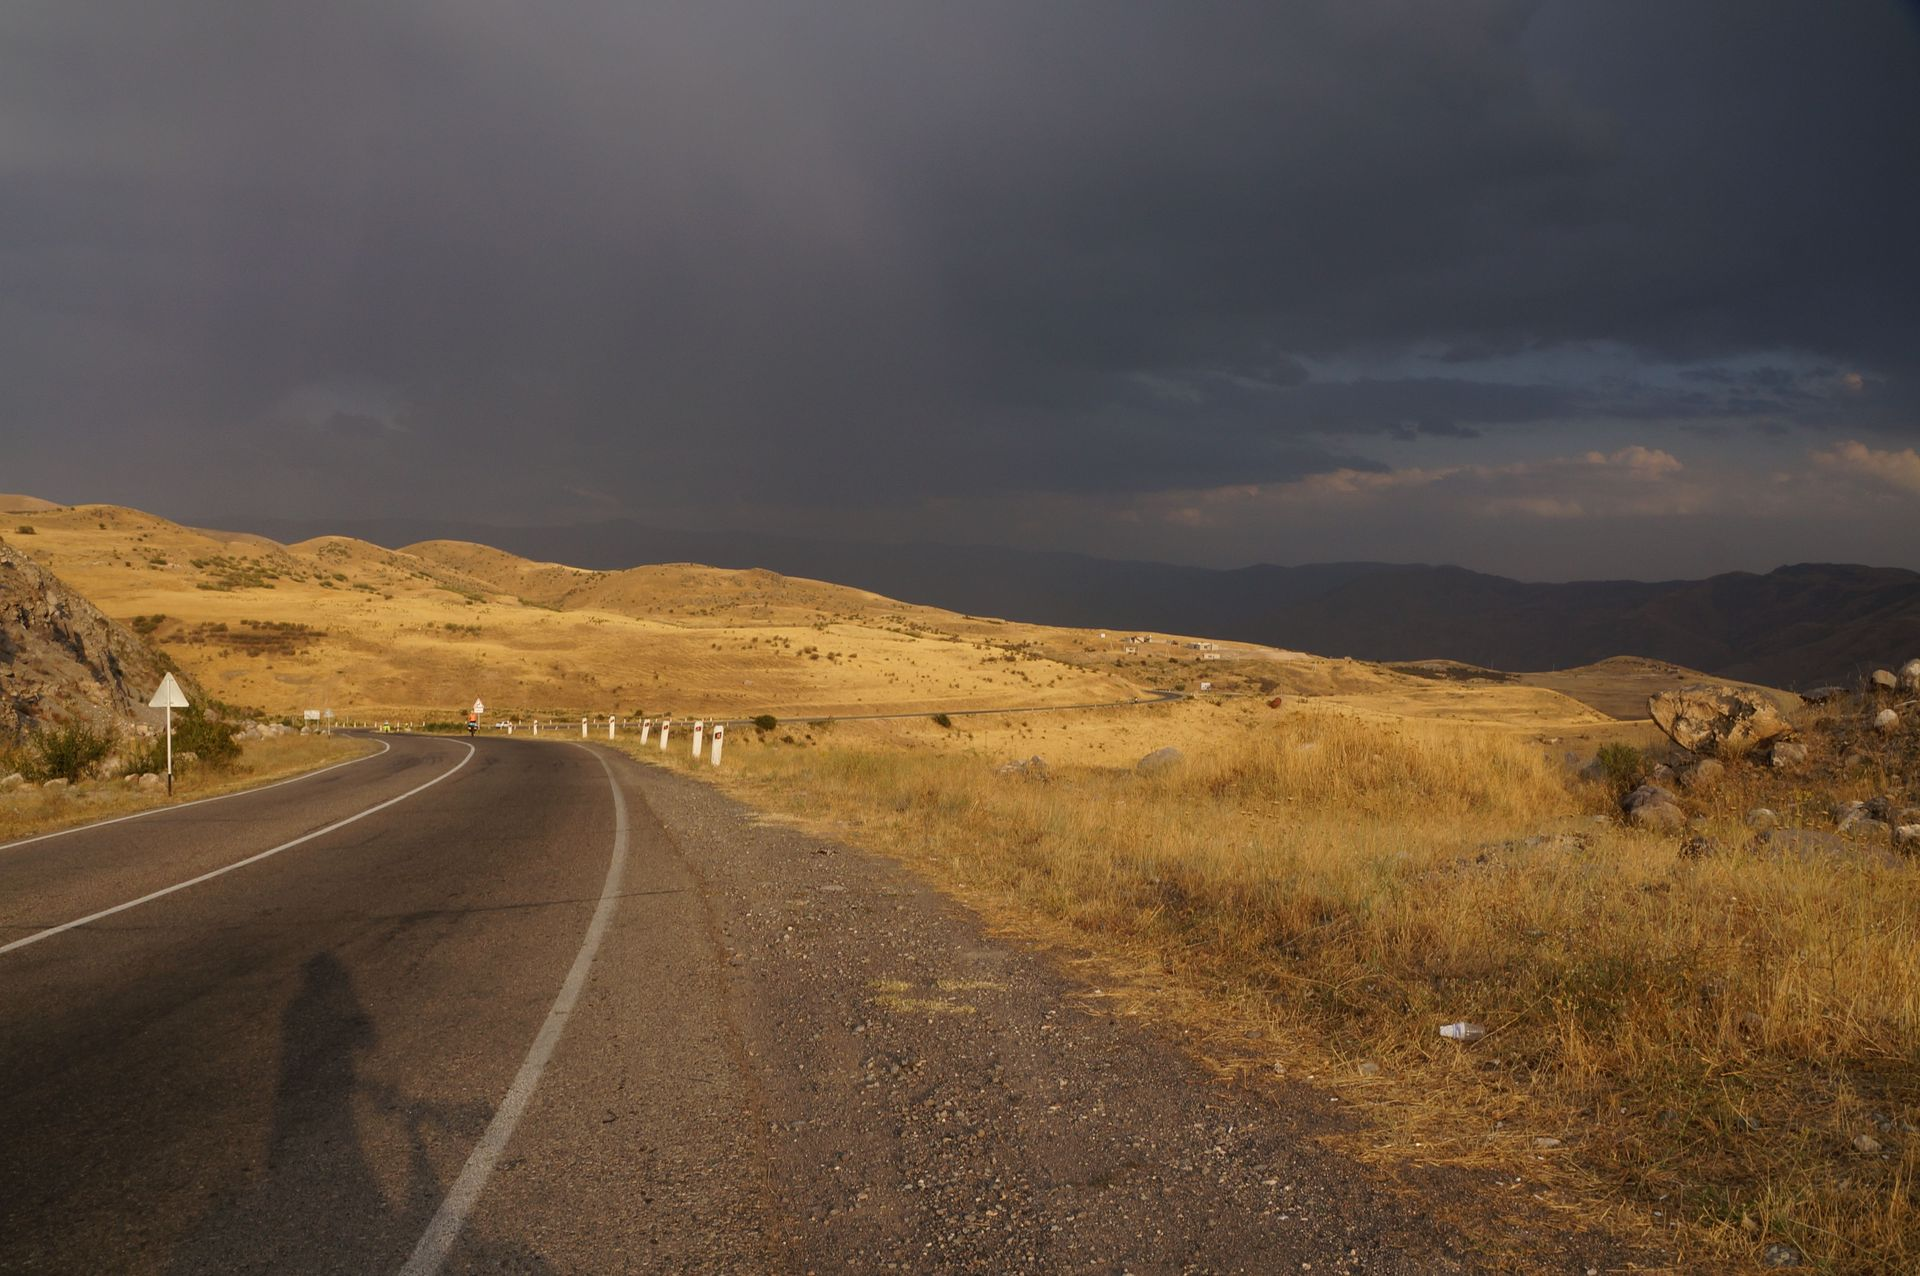
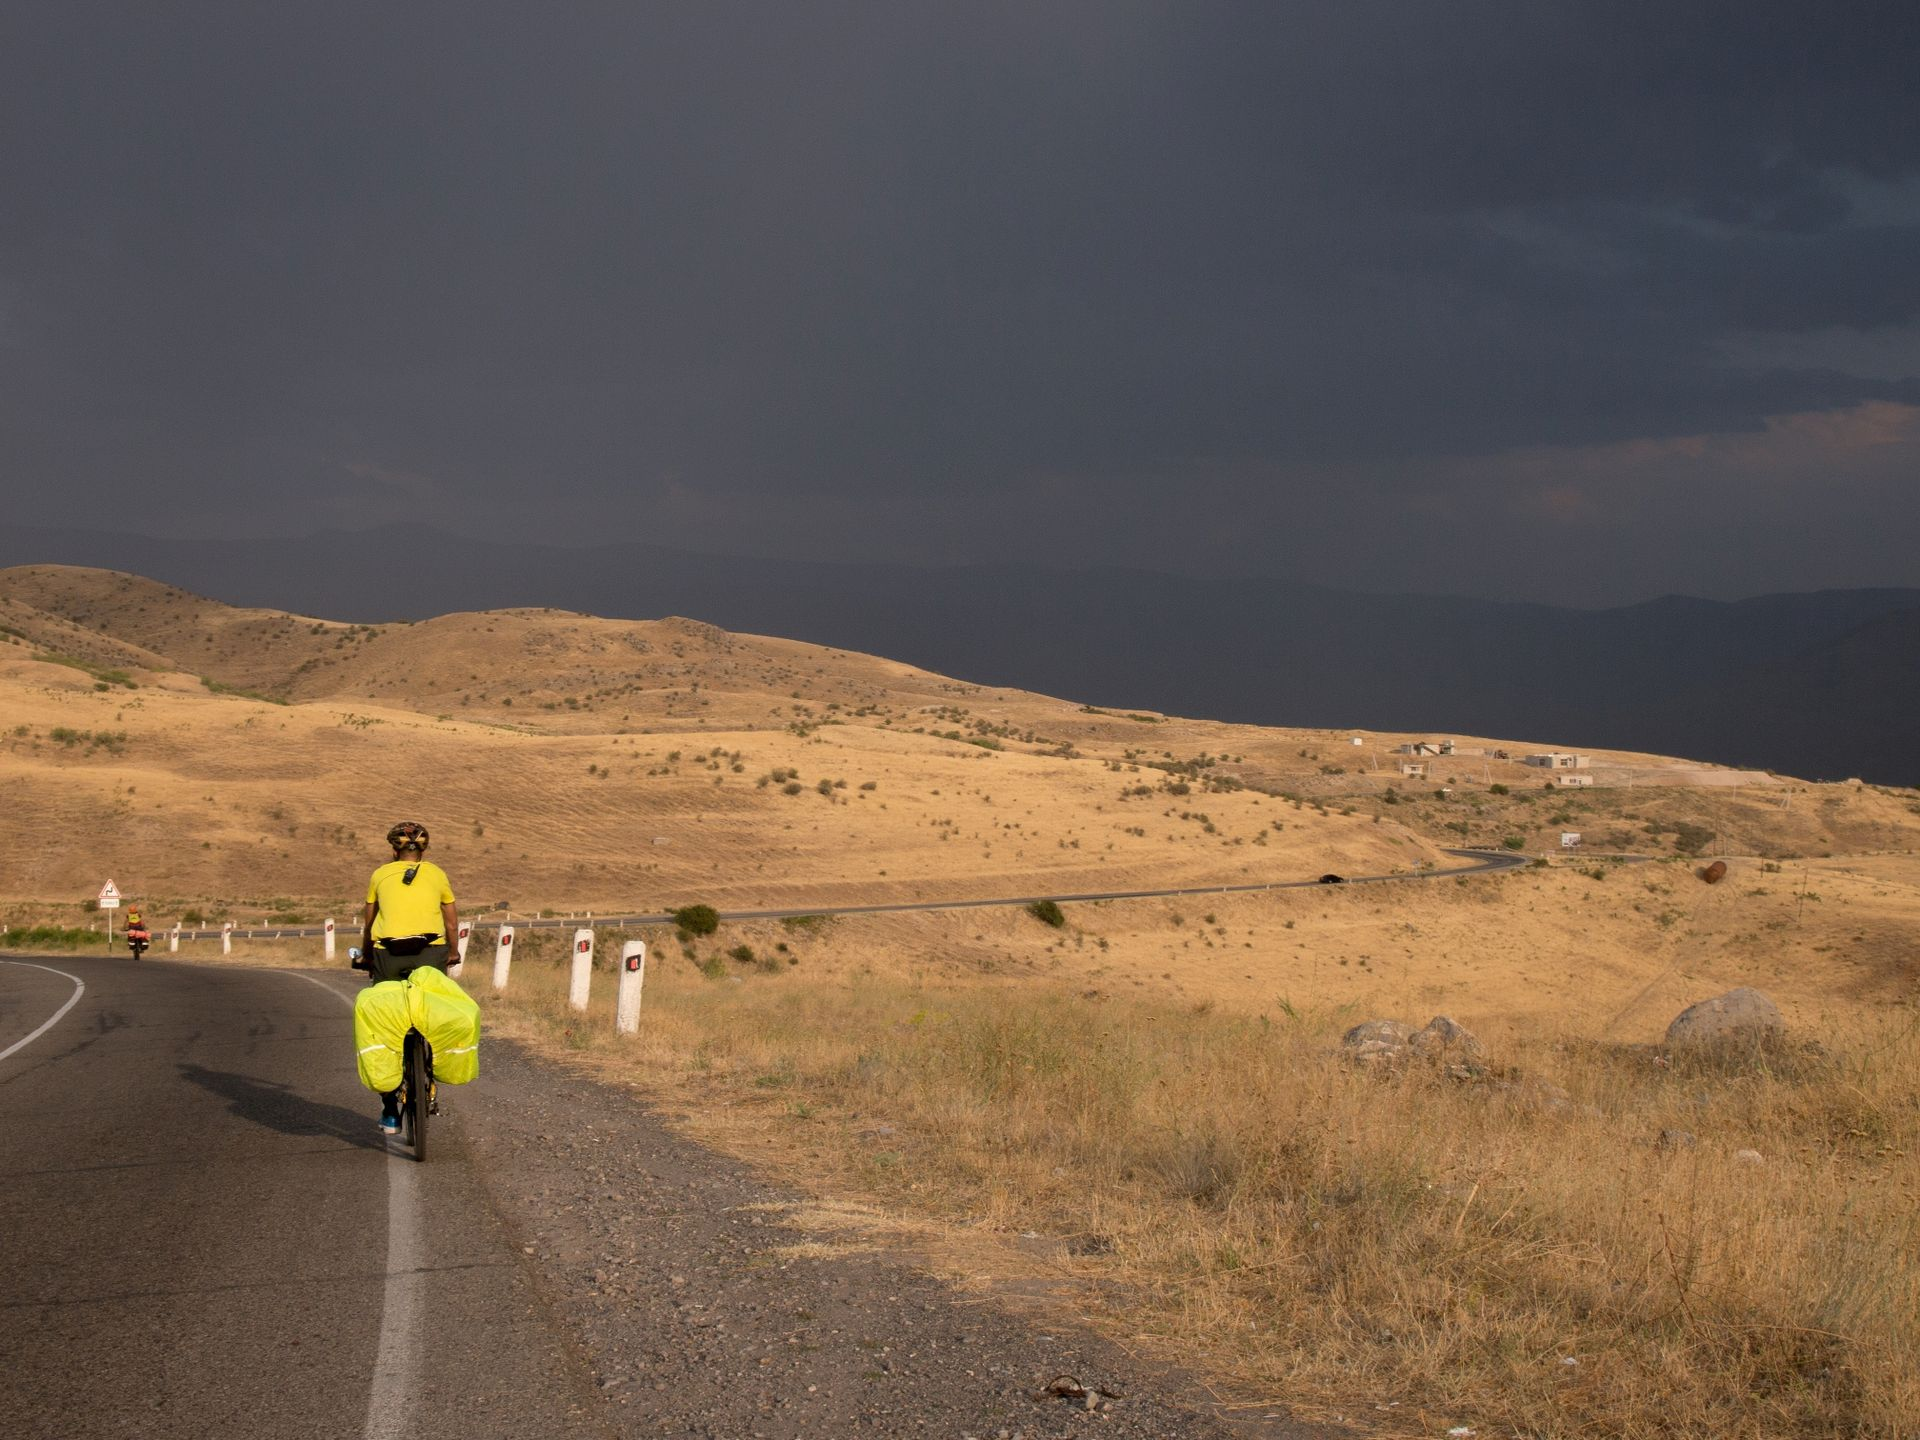
almost Garni

diff --git a/_posts/2018-09-28-CycleArmenia.md b/_posts/2018-09-28-CycleArmenia.md
@@ -61,13 +61,31 @@ tags: [hot, summer, Armenia]
 Кроме того, выяснилось, что Вова и Андрей чем-то сильно отравились и всю ночь бегали по разным выделительным нуждам, из-за чего были невыспанные и в целом очень плохо себя чувствовали, не могли есть.
 Образовался консилиум: у каждого были свои мысли, чем и как лечить пациентов, и чем они могли отравиться. Вспомнили и химическую газировку, и другие напитки, которые употребляли вечером. Ира воспользовалась чем-то из аптечки, и мы двинулись в путь.
 
-Выехали в 08:25. Первым делом мы направились в Гегард. По пути встретили дедушку без рубашки и с рюкзаком. Это оказался пенсионер из Польши, путешествует пешком и на транспорте. Рассказывал, что часото ездит на такси - очень дёшево. Конечно, если получать пенсию в евро - то почему бы и не покататься на армянских такси.
+Выехали в 08:25. Первым делом мы направились в Гегард. По пути встретили дедушку без рубашки и с рюкзаком. Это оказался пенсионер из Польши, путешествует пешком и на транспорте. Очень хорошо говорит по-русски. Рассказывал, что часто ездит на такси - очень дёшево. Конечно, если получать пенсию в евро - то почему бы и не покататься на армянских такси.
 
 Гегард - это древний монастырь, в котором, по преданию, хранилось копьё, которым пронзили Иисуса на кресте. Слово "гегард" - это и есть "копьё" по-армянски.
 ![](/assets/img/2018-09-28-CycleArmenia_files/DSC00182.jpg)
 Очень красивое и живописное место, здания наполовину вырублены в скале, наполовину построены из камня.
 ![](/assets/img/2018-09-28-CycleArmenia_files/DSC00187.jpg)
 Также в одной из пещер есть источник, который пользуется суеверным уважением у женщин, лишенных радостей материнства. Наши девушки суеверно умылсь этой водой, и даже Надя, хоть и мама двоих детей - тоже воспользовалась такой возможностью - на всякий случай)))
+
+Из Гегарда мы отправились обратно той же дорогой обратно в поселок Гарни. По пути встретили двух велотуристов - мужчину и женщину, тоже из Польши. Эти по-русски категорически не понимали, мы с ними общались по-английски. Они едут примерно по нашему маршруту, только планируют заехать в Нагорный Карабах, и из-за этого маршрут их займёт три недели. Поболтав, мы пожелали друг другу доброго пути и поехали дальше. Вова с Андреем все еще очень плохо себя чувствовали, и, к тому же, были голодные и просили кефира. Как оказалось, из кисломолочных продуктов в Армении представлены только мацони, тан и сыр. Эти люди не знают кефира. Купили всем тан, но он как-то не очень зашел, особенно Вове, он так и остался голодный.
+
+В поселке Гарни нам нужно было сворачивать направо, но Ира, ехавшая впереди, так увлеклась кручением, что проехала поворот и скрылась за горизонтом. Я ей кричал и так и в рацию, но на её рации была выкручена громкость на минимум, а мои вопли она не слышала. Мы остановились на повороте, и, ожидая возвращения Иры, стали рассуждать, куда ехать дальше. У нас было два варианта: ехать на превал и потом вниз, или сразу вниз по долине реки Азат. Андрей процитировал слова Джона Рокфеллера: "Если можно не крутить - значит нужно не крутить". На этом и порешали, особенно учитывая самочувствие наших пациентов.
+
+Ира вернулась, и мы поехали кривыми улочками поселка, которые порой падали вниз настолько круто, что некоторымприходилось спешиваться. Спустившись к реке, мы попали в место, кторое называется "Каменная симфония".
+![Каменная симфония](/assets/img/2018-09-28-CycleArmenia_files/DSC00192.jpg)
+Это скалы особой формы - в виде шестиугольных столбов почти правильной формы. Это результат вылканической деятельности, при быстром остывании лавовых потоков образуется ячеистая структура, которая направлена перпендикулярно поверхности.
+![Каменная симфония 2](/assets/img/2018-09-28-CycleArmenia_files/DSC00194.jpg)
+Подобные образования можно увидеть на Курилах (мыс Столбчатый), в Исландии (водопад Свартифосс), в Северной Ирландии (Мостовая Гигантов), а так же в США (Дэвилс Тауэр). Это место довольно популярно у туристов, было очень людно, приезжали и уезжали внедорожники, УАЗы, ГАЗы.
+![Каменная симфония 3](/assets/img/2018-09-28-CycleArmenia_files/20180911_114609.jpg)
+
+Наш путь лежал дальше по ущелью, вниз по течению реки Азат. Недалеко от нашей дороги находилась еще одна известная достопримечательность Армении - языческий храм I в. н. э. Гарни. Однако мы спускались всё ниже, а храм был наверху, над ущельем. Мы его видели снизу издалека, но выгребать туда, и потом спускаться обратно у нашего руковода в планах не было. Если честно, у него к тому времени вообще ничего в планах не было, кроме как прилечь. Наши пациенты чувствовали себя очень плохо, и к тому же были обессилены, т.к. практически ничего не ели с утра. Был уже полдень, солнце пекло нещадно, мы нашли около дороги старое ржавое подобие беседку, перекусили в ней, после чего Вова с Андреем завалились подремать в тени кустов, не в состоянии ехать дальше.
+![ ](/assets/img/2018-09-28-CycleArmenia_files/DSC00205.jpg)
+
+При этом оказалось, что прямо рядом с нами есть дорога наверх, к храму Гарни, и можно пешком туда сбегать. Вова был непротив, ему было всё равно, лишь бы его оставили. Мы это и сделали: оставили Вову с Андреем отдыхать, а сами пошли наверх. Дорога наверх проходила через закрытую огороженную забором территорию чего-то вроде  водозабора/насосной станции, мы самовольно открыли ворота и проникли внутрь. Пройдя пару сотен метров между техническими сооружениями, мы подошли к воротам на противоположной стороне, рядом с которыми находилась будка охранника. Я видел, как он удивленно смотрел на нас из окошка, но, т.к. он не бежал к нам размахивая ружьём, и даже ничего не говорил - я отвернулся, сделал рожу кирпичом, открыл калитку и мы все вышли. За калиткой находится что-то вроде дачного товарищества на склоне горы, мы шли по дороге мимо огороженных и не очень участков с домиками, фруктовыми деревьями, людей не было, было тихо, безмятежно и живописно.
+
+ 
 
 Проехали за день: 31 км. Время в пути: 10:08. Набор высоты: 901 м. Сброс высоты: 1291 м.
 
